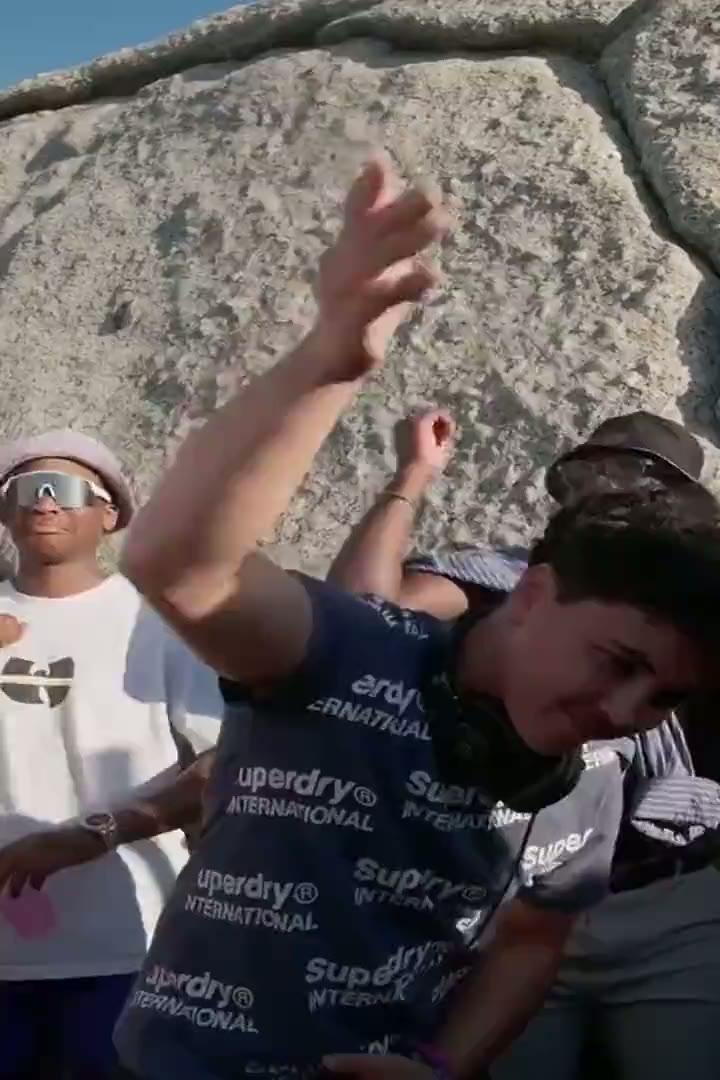
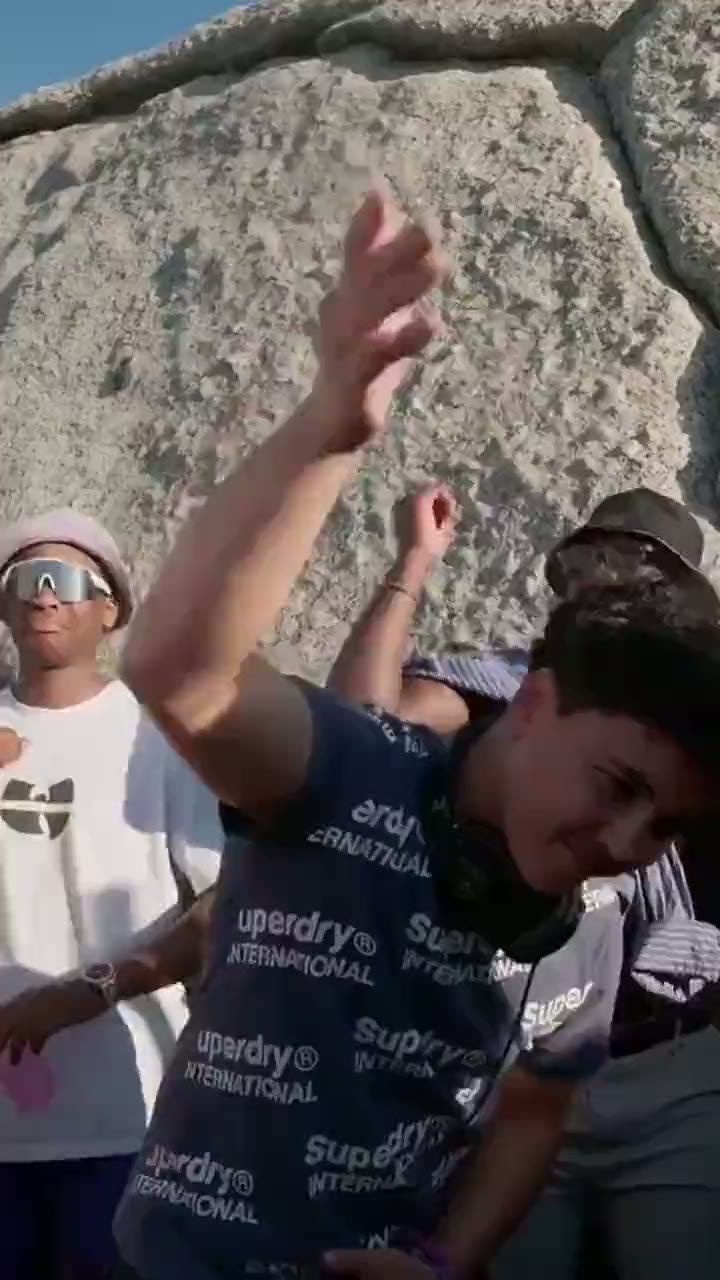
Recut the Llandudno loop and poster at 9:16
The first cut was encoded at 2:3, which squashed the footage in its
gallery tile and sized the lightbox to the wrong shape.

Changed region(s): [[0.6111, 0.5194, 0.6417, 0.55], [0.0, 0.4278, 0.0306, 0.4583]]

diff --git a/lib/site.ts b/lib/site.ts
@@ -225,12 +225,13 @@ const grayMatterClip = galleryClip({
 });
 
 const llandudnoClip = galleryClip({
-  src: cdn('llandudno-loop.mp4'),
+  // v2: the first cut was encoded at 2:3 and squashed the 9:16 footage.
+  src: cdn('llandudno-loop-v2.mp4'),
   fullSrc: streamHls(LLANDUDNO_UID),
   poster: '/gallery/llandudno-poster.jpg',
   title: 'LLANDUDNO',
   date: 'Nov 2024',
-  upright: '2 / 3',
+  upright: '9 / 16',
 });
 
 export const galleryClips: GalleryClip[] = [
